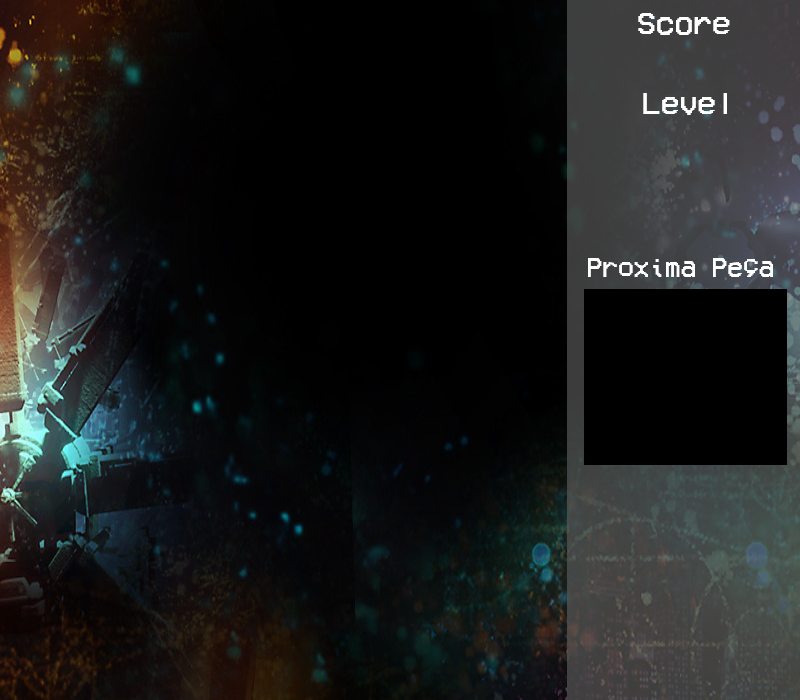
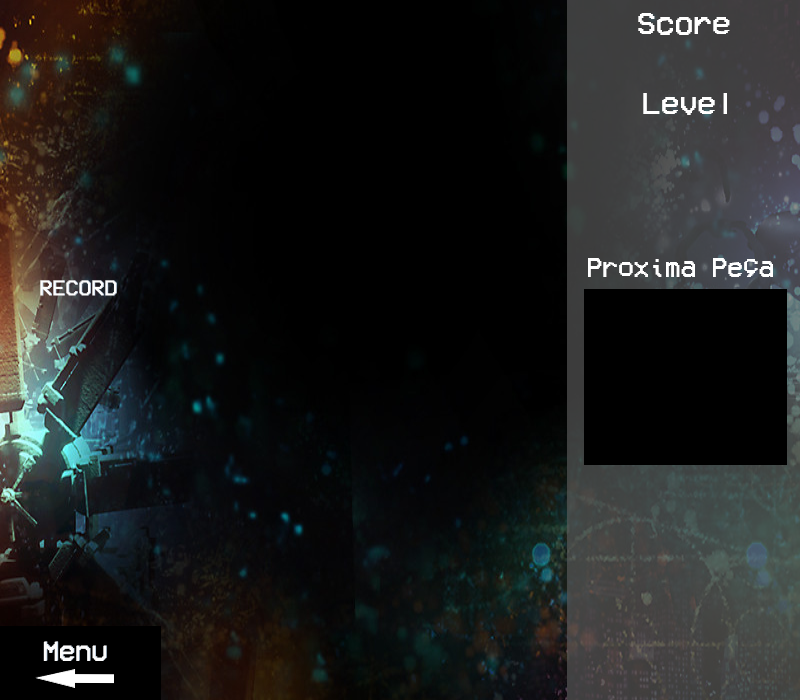
tamo ai na atividade

Changed region(s): [[0.0, 0.87, 0.1562, 1.0], [0.0312, 0.39, 0.1562, 0.42], [0.1875, 0.9, 0.2188, 0.93]]

diff --git a/projeto/funcionalidades.py b/projeto/funcionalidades.py
@@ -1,3 +1,4 @@
+
 import random
 import pygame
 import sys
@@ -24,12 +25,6 @@ topo_esquerdo_y = ALTURA_JANELA - ALTURA_TABULEIRO
 TELA = pygame.display.set_mode([LARGURA_JANELA, ALTURA_JANELA])
 
 
-# areas do jogo
-area_jogo_pecas = pygame.Surface((800, 710))
-area_jogo_placar = pygame.Surface((265, 710))
-
-
-
 
 cor_branca = (255, 255, 255)
 cor_azulado = (11, 139, 244)
@@ -40,22 +35,10 @@ cor_preta = (0, 0, 0)
 cor_cinza = (15, 15, 15)
 cor_azul = (0, 0, 255)
 cor_peca = [cor_verde, cor_azulado, cor_vermelha, cor_amarela, (255, 165, 0), cor_azul, (128, 0, 128)]
-
-
 cor_borda = cor_cinza
 cor_bg = cor_preta
 
 fonte_basica = pygame.font.Font('freesansbold.ttf', 18)
-
-
-
-# # limites area do jogo
-#
-# limite_esquerdo = pygame.Rect(0, 5, 5, 710)
-# limite_direito = pygame.Rect(805, 5, 5, 710)
-# limite_inferior = pygame.Rect(0, 715, 810, 5)
-# limite_superior = pygame.Rect(0, 0, 810, 5)
-
 
 
 # formas das peças
@@ -74,36 +57,11 @@ PECA_J = [['.....', '.O...', '.OOO.', '.....', '.....'], ['.....', '..OO.', '..O
 PECA_L = [['.....', '..O..', '..O..', '..OO.', '.....'], ['.....', '.....', '.OOO.', '.O...', '.....'],
           ['.....', '.OO..', '..O..', '..O..', '.....'], ['.....', '...O.', '.OOO.', '.....', '.....']]
 
-
-
 PECA_T = [['.....', '.....', '..O..', '.OOO.', '.....'], ['.....','..O..','..OO.','..O..','.....'],
           ['.....','.....','.OOO.', '..O..', ], ['.....','..O..', '.OO..', '..O..', '.....']]
 
 
 formas = [PECA_S, PECA_Z, PECA_I, PECA_O, PECA_J, PECA_L, PECA_T]
-
-#
-# PECAS = {'S': PECA_S,
-#          'Z': PECA_Z,
-#          'I': PECA_I,
-#          'O': PECA_O,
-#          'J': PECA_J,
-#          'L': PECA_L,
-#          'T': PECA_T}
-
-# for i in PECAS:
-#     for j in range(len(PECAS[i])):
-#         dados_formato = []
-#         for x in range(5):
-#             coluna = []
-#             for y in range(5):
-#                 if PECAS[i][j][y][x] == '.':
-#                     coluna.append(EM_BRANCO)
-#                 else:
-#                     coluna.append(1)
-#             dados_formato.append(coluna)
-#         PECAS[i][j] = dados_formato
-
 
 
 # chaves
@@ -248,15 +206,7 @@ def texto(text):
         relogio.tick()
 
 
-def tela_inicial():
 
-    fundo = pygame.image.load('tetrismenu.png')
-    TELA.blit(fundo, (0, 0))
-    # menu = pygameMenu.Menu(TELA, LARGURA_JANELA, ALTURA_JANELA, fonte_basica, 'Tetris', True)
-    # menu.draw()
-    while foi_precionado() == None:
-        pygame.display.update()
-        relogio.tick()
 
 
 
@@ -304,10 +254,11 @@ def desenhar_janela(tela, grade):
 
     desenha_grade(tela, 20, 10)
     pygame.draw.rect(tela, (255, 0, 0), (topo_esquerdo_x, topo_esquerdo_y, LARGURA_TABULEIRO, ALTURA_TABULEIRO), 5)
-
+    pygame.display.update()
 
 def desenhar_janela_dificil(tela, grade):
-    tela.fill((0, 0, 0))
+    image = pygame.image.load('background.png')
+    tela.blit(image, (0, 0))
 
     pygame.font.init()
     fonte = pygame.font.SysFont('comicsans', 60)
@@ -322,7 +273,7 @@ def desenhar_janela_dificil(tela, grade):
 
     pygame.draw.rect(tela, (255, 0, 0), (topo_esquerdo_x, topo_esquerdo_y, LARGURA_TABULEIRO, ALTURA_TABULEIRO), 5)
 
-
+    pygame.display.update()
 
 def desenha_proxima_peca(forma, tela):
 
@@ -410,16 +361,74 @@ def multipos_textos(listatext, tela):
 
     pygame.display.update()
 
-def desenhar_status(nivel, pontos):
+def desenhar_status(nivel, pontos, record=0):
+        # pontos atuais
         scoreSurf = fonte_basica.render('{}' .format(pontos * 100), True, cor_branca)
         scoreRect = scoreSurf.get_rect()
-
-        scoreRect.topleft = (LARGURA_JANELA - 125, 55)
+        scoreRect.topleft = (LARGURA_JANELA - 130, 55)
         TELA.blit(scoreSurf, scoreRect)
 
-
+        # nivel
         levelSurf = fonte_basica.render('{}' .format(nivel), True, cor_branca)
         levelRect = levelSurf.get_rect()
         levelRect.topleft = (LARGURA_JANELA - 120, 130)
         TELA.blit(levelSurf, levelRect)
+
+        # record
+        recordSurf = fonte_basica.render('{}'.format(record), True, cor_branca)
+        recordRect = recordSurf.get_rect()
+        recordRect.topleft = (55, ALTURA_JANELA/2 - 50)
+
+        TELA.blit(recordSurf, recordRect)
+
+
         pygame.display.update()
+
+# record nivel facil
+def recordf(record):
+    pontos = record_maxf()
+    with open('records.txt', 'w') as f:
+        if int(pontos) > int(record):
+            f.write((str(pontos)))
+        else:
+            f.write((str(record)))
+
+def record_maxf():
+    with open('records.txt', 'r') as f:
+        lines = f.readlines()
+        pontos = lines[0].strip()
+    return pontos
+
+
+
+#recode nivel normal
+def recordn(record):
+    pontos = record_maxn()
+    with open('recordsn.txt', 'w') as f:
+        if int(pontos) > int(record):
+            f.write((str(pontos)))
+        else:
+            f.write((str(record)))
+
+def record_maxn():
+    with open('recordsn.txt', 'r') as f:
+        lines = f.readlines()
+        pontos = lines[0].strip()
+    return pontos
+
+
+
+#record nivel dificil
+def recordd(record):
+    pontos = record_maxd()
+    with open('recordsd.txt', 'w') as f:
+        if int(pontos) > int(record):
+            f.write((str(pontos)))
+        else:
+            f.write((str(record)))
+
+def record_maxd():
+    with open('recordsd.txt', 'r') as f:
+        lines = f.readlines()
+        pontos = lines[0].strip()
+    return pontos

diff --git a/projeto/projeto1.py b/projeto/projeto1.py
@@ -1,27 +1,67 @@
+
 from projeto.funcionalidades import *
 import random
 import pygame
+pygame.init()
 
 
-
-# menu principal
 
 def menu_principal():
     global TELA
     pygame.init()
-    jogando = True
+    pygame.mixer.music.stop()
+    while True:
+        fundo = pygame.image.load('tetrismenu.png')
+        TELA.blit(fundo, (0, 0))
 
-    while jogando:
-        TELA
+        for event in pygame.event.get():
+            if event.type == pygame.QUIT:
+                terminar()
 
-        tela_inicial()
-        iniciar_jogo()
-        jogando = False
+            if event.type == pygame.KEYDOWN:  # Aqui ele faz o movimento da peca
+                if event.key == K_1:
+                    menu_jogar()
 
-    terminar()
+                elif event.key == K_2:
+                    menu_ajuda()
 
-# loop para começar o jogo
-def iniciar_jogo():
+                elif event.key == K_3:
+                    terminar()
+
+        pygame.display.update()
+
+
+def menu_jogar():
+    while True:
+        fundo = pygame.image.load('menunivel.png')
+        TELA.blit(fundo, (0, 0))
+        for event in pygame.event.get():
+            if event.type == pygame.QUIT:
+                terminar()
+
+            if event.type == pygame.KEYDOWN:  # Aqui ele faz o movimento da peca
+                if event.key == K_1:
+                    iniciar_jogo(1)
+
+                elif event.key == K_2:
+                    iniciar_jogo(2)
+
+                elif event.key == K_3:
+                    iniciar_jogo(3)
+
+                elif event.key == pygame.K_4:
+                    menu_principal()
+        pygame.display.update()
+
+def menu_ajuda():
+    pass
+
+
+def tela_inicial(nivel):
+    iniciar_jogo(nivel)
+
+
+def iniciar_jogo(modo):
     global relogio, TELA, fonte_basica
     pygame.init()
     relogio = pygame.time.Clock()
@@ -35,13 +75,22 @@ def iniciar_jogo():
         else:
             pygame.mixer.music.load('tetrisc.mid')
         pygame.mixer.music.play(-1, 0.0)
-        run_facil()
+
+        if modo == 1:
+            run_facil()
+
+        elif modo == 2:
+            run_normal()
+
+        elif modo == 3:
+            run_dificil()
 
 
 # nivel facil:
 
 def run_facil():
         global grade, TELA
+        ultimo_record = record_maxf()
         locked_position = {}
         grade = criar_grade(locked_position)
 
@@ -132,10 +181,11 @@ def run_facil():
                 pontos += remover_linhas(grade, locked_position) * 2
                 nivel = calcular_nivel(pontos)
                 fall_speed = frequencia_peca_f()
+                recordf(pontos*100)
 
             desenhar_janela(TELA, grade)
             desenha_proxima_peca(proxima_peca, TELA)
-            desenhar_status(nivel, pontos)
+            desenhar_status(nivel, pontos, ultimo_record)
             pygame.display.update()
 
             if fim_de_jogo(locked_position):
@@ -171,6 +221,7 @@ def run_facil():
 
 def run_normal():
     global grade, TELA
+    ultimo_record = record_maxn()
     locked_position = {}
     grade = criar_grade(locked_position)
 
@@ -261,10 +312,11 @@ def run_normal():
             pontos += remover_linhas(grade, locked_position) * 2
             nivel = calcular_nivel(pontos)
             fall_speed = frequencia_peca_n(nivel)
+            recordn(pontos * 100)
 
         desenhar_janela(TELA, grade)
         desenha_proxima_peca(proxima_peca, TELA)
-        desenhar_status(nivel, pontos)
+        desenhar_status(nivel, pontos, ultimo_record)
         pygame.display.update()
 
         if fim_de_jogo(locked_position):
@@ -299,6 +351,7 @@ def run_normal():
 # nivel_dificil
 def run_dificil():
     global grade, TELA
+    ultimo_record = record_maxd()
     locked_position = {}
     grade = criar_grade(locked_position)
 
@@ -389,11 +442,11 @@ def run_dificil():
             pontos += remover_linhas(grade, locked_position) * 2
             nivel = calcular_nivel(pontos)
             fall_speed = frequencia_peca_d(nivel)
-            print (fall_speed)
+            recordd(pontos * 100)
 
         desenhar_janela_dificil(TELA, grade)
         desenha_proxima_peca(proxima_peca, TELA)
-        desenhar_status(nivel, pontos)
+        desenhar_status(nivel, pontos, ultimo_record)
         pygame.display.update()
 
         if fim_de_jogo(locked_position):
@@ -423,6 +476,5 @@ def run_dificil():
                                 pygame.mixer.music.load('tetrisc.mid')
                             pygame.mixer.music.play(-1, 0.0)
                             run_dificil()
-
 
 menu_principal()
